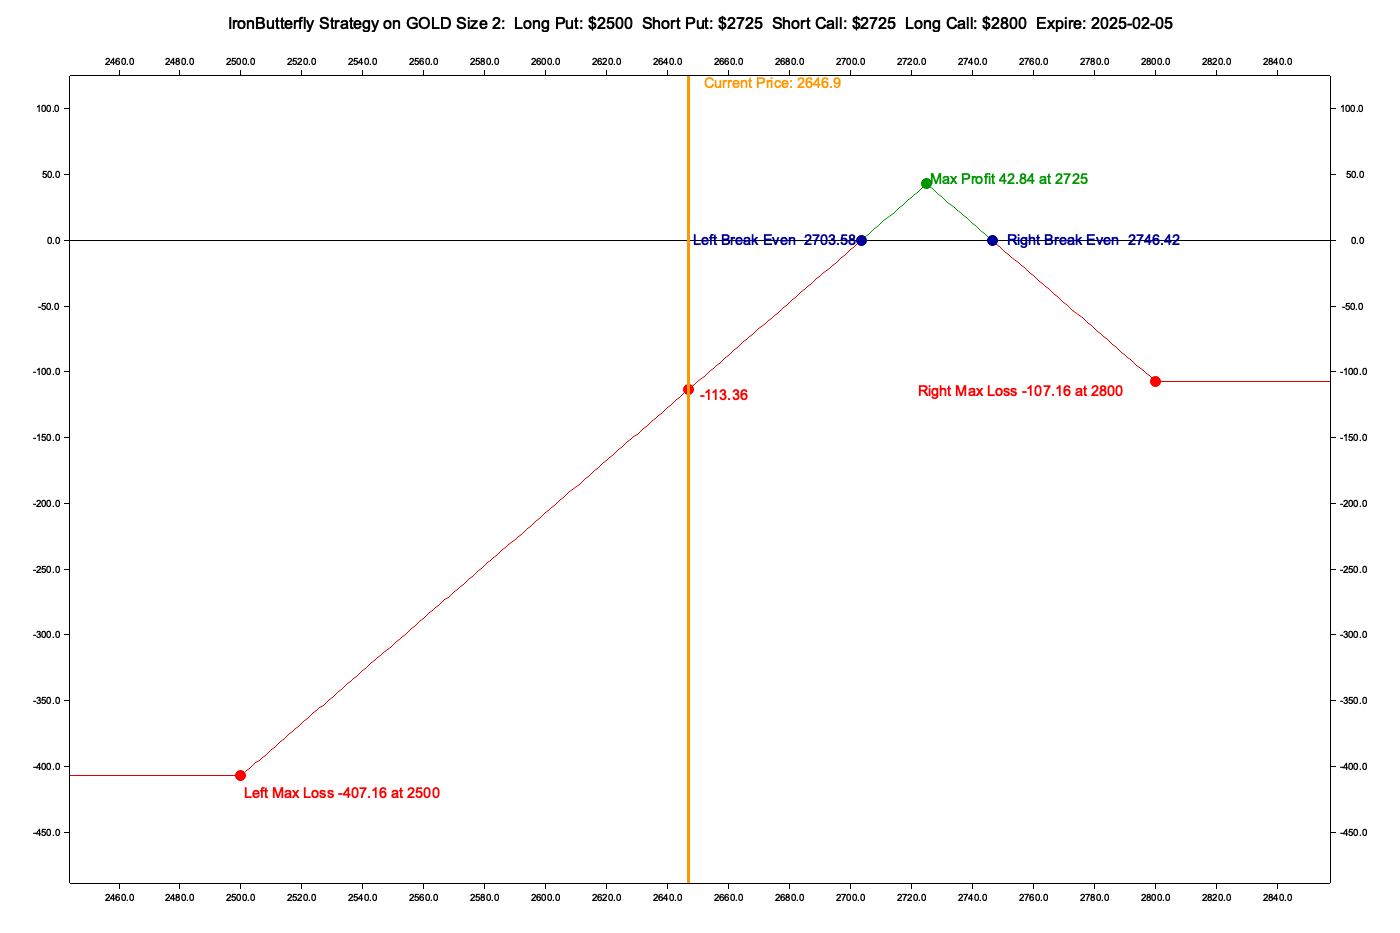
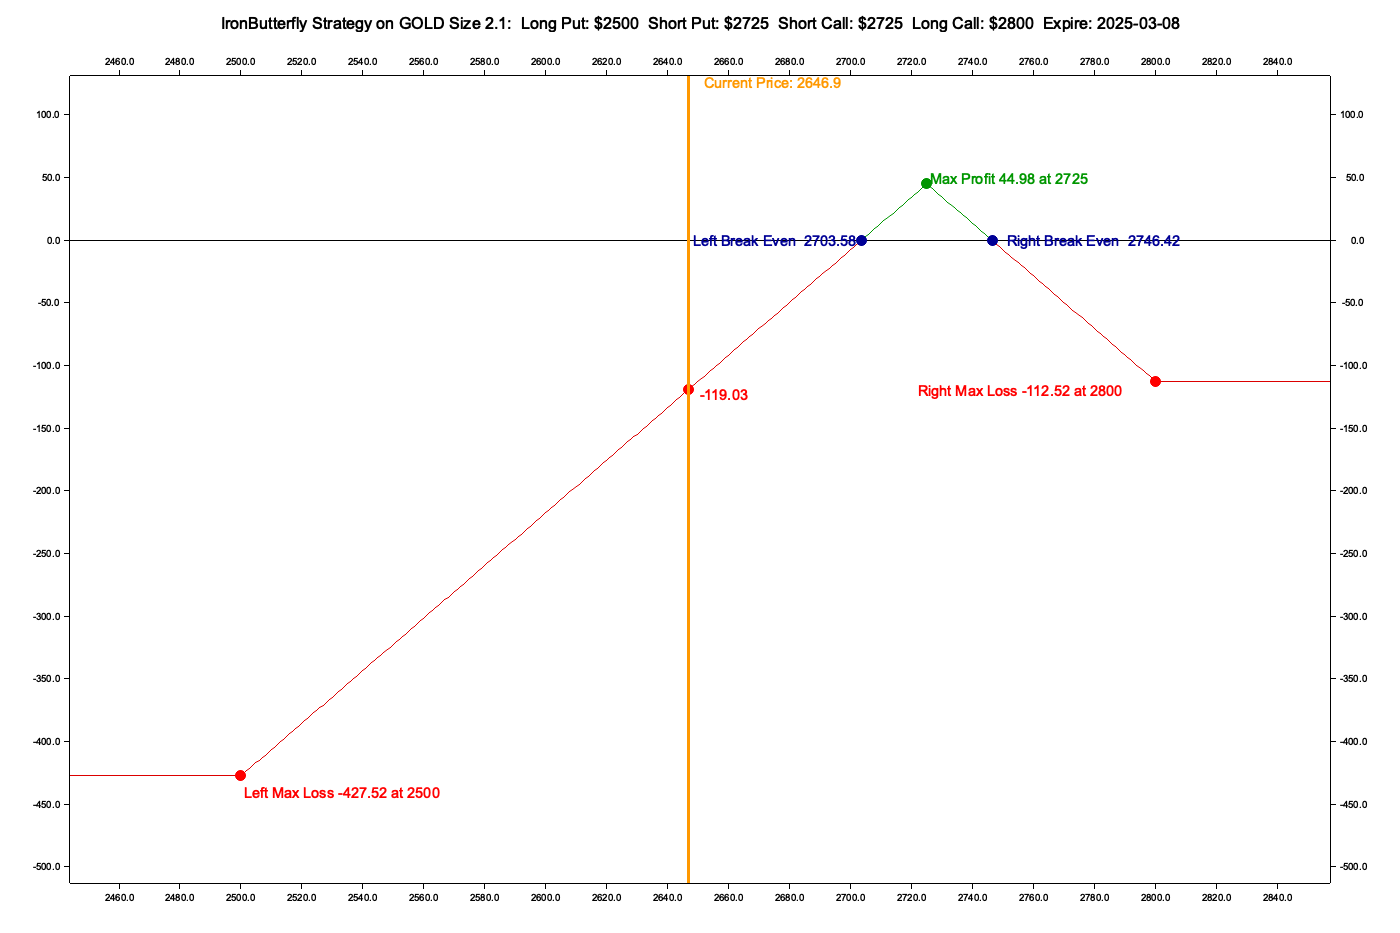
Refactor break-even point calculation in Iron Butterfly.
Moved the break-even point calculation logic into a dedicated `update_break_even_points` method. This improves code clarity, reusability, and adheres to the single-responsibility principle.

diff --git a/src/strategies/iron_butterfly.rs b/src/strategies/iron_butterfly.rs
@@ -194,17 +194,9 @@ impl IronButterfly {
             .add_position(&long_put.clone())
             .expect("Invalid long put");
 
-        // Calculate break-even points
-        let net_credit = strategy.net_premium_received().unwrap() / quantity;
-
         strategy
-            .break_even_points
-            .push((short_strike + net_credit).round_to(2));
-        strategy
-            .break_even_points
-            .push((short_strike - net_credit).round_to(2));
-
-        strategy.break_even_points.sort();
+            .update_break_even_points()
+            .expect("Unable to update break even points");
         strategy
     }
 }
@@ -212,6 +204,21 @@ impl IronButterfly {
 impl BreakEvenable for IronButterfly {
     fn get_break_even_points(&self) -> Result<&Vec<Positive>, StrategyError> {
         Ok(&self.break_even_points)
+    }
+
+    fn update_break_even_points(&mut self) -> Result<(), StrategyError> {
+        self.break_even_points = Vec::new();
+
+        let net_credit = self.net_premium_received()? / self.short_call.option.quantity;
+
+        self.break_even_points
+            .push((self.short_call.option.strike_price + net_credit).round_to(2));
+
+        self.break_even_points
+            .push((self.short_call.option.strike_price - net_credit).round_to(2));
+
+        self.break_even_points.sort();
+        Ok(())
     }
 }
 

diff --git a/examples/examples_strategies/src/bin/strategy_iron_butterfly.rs b/examples/examples_strategies/src/bin/strategy_iron_butterfly.rs
@@ -24,7 +24,7 @@ fn main() -> Result<(), Box<dyn Error>> {
         pos!(0.1548),   // implied_volatility
         dec!(0.05),     // risk_free_rate
         Positive::ZERO, // dividend_yield
-        pos!(2.0),      // quantity
+        pos!(2.1),      // quantity
         pos!(38.8),     // premium_short_call
         pos!(30.4),     // premium_short_put
         pos!(23.3),     // premium_long_call
